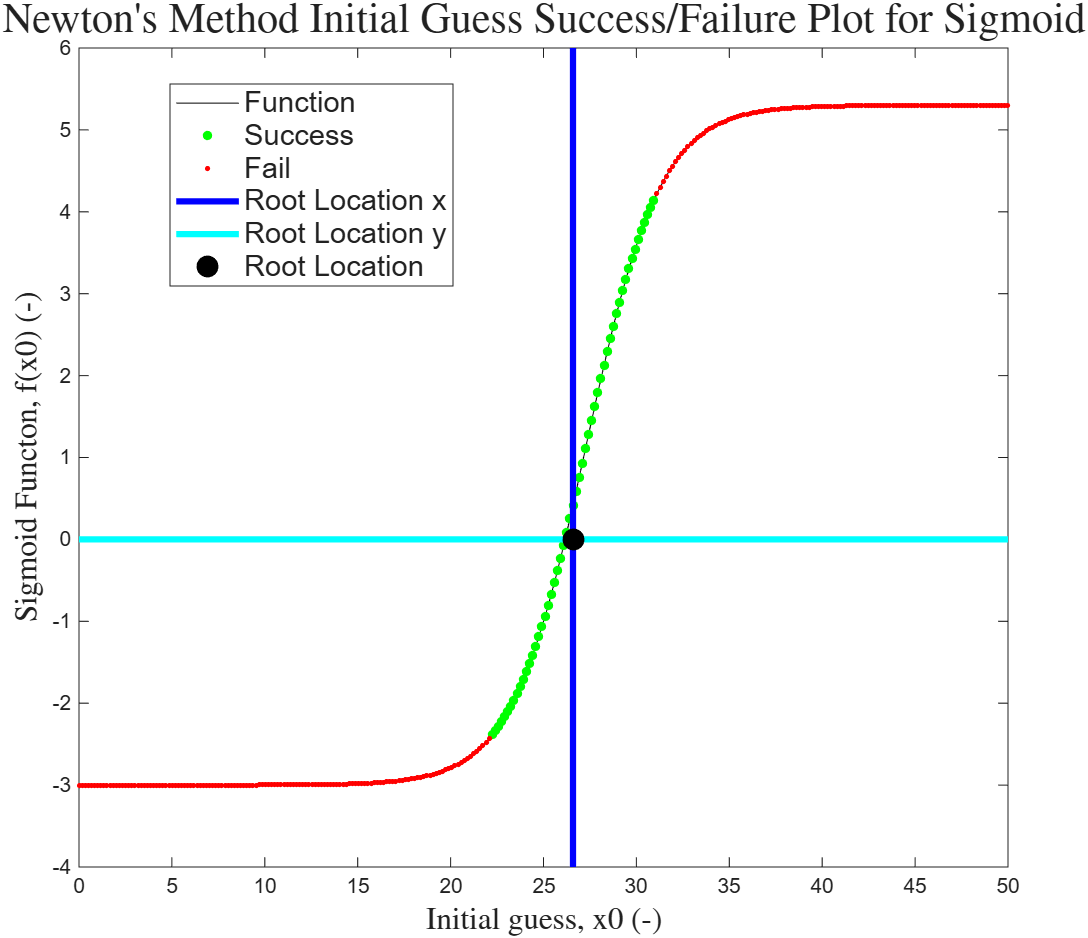
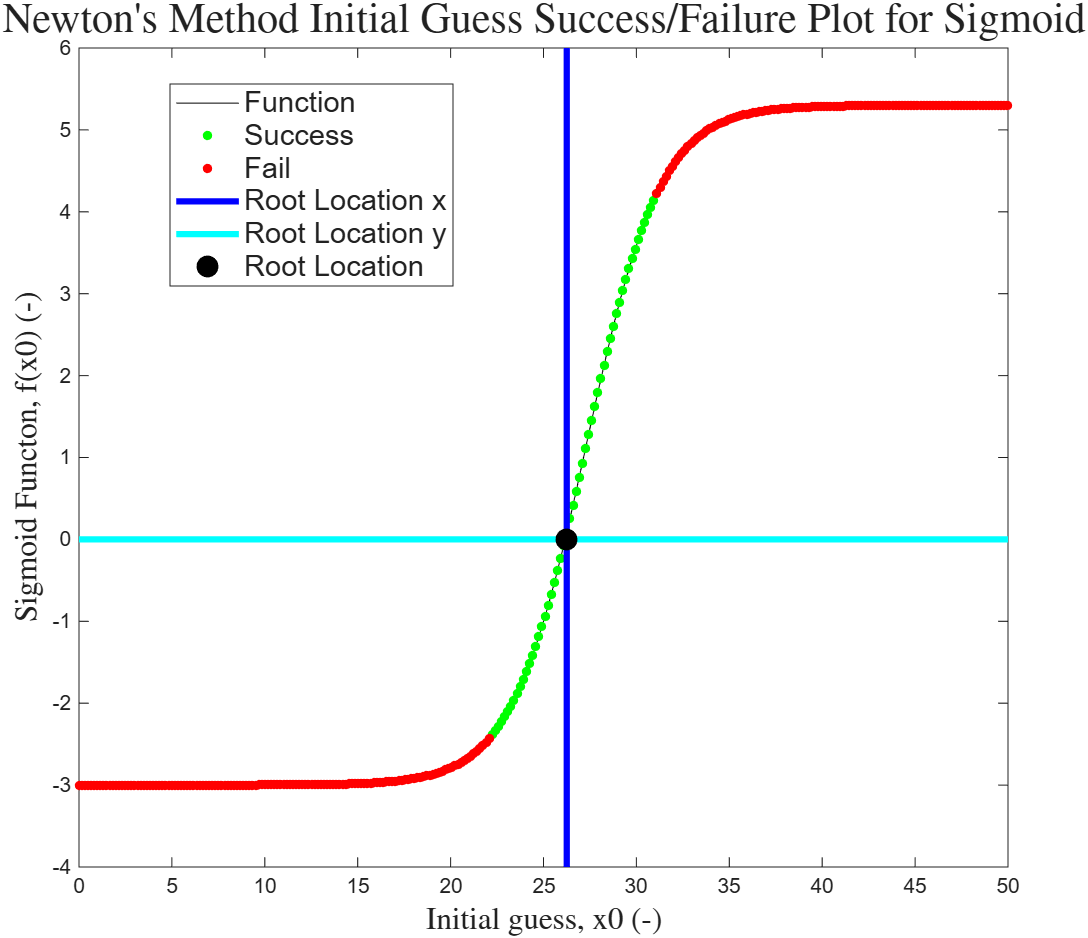
fix newton's method plot

diff --git a/run_convergence_analysis.m b/run_convergence_analysis.m
@@ -5,7 +5,7 @@ function run_convergence_analysis()
     y = linspace(10,40,50);   
     filter_list = [1e-15, 1e-2, 1e-14, 1e-2, 2];
     x_guess0 = 2;
-    solver_flag = 3;
+    solver_flag = 2;
     if(solver_flag == 2||solver_flag == 4)
         x = linspace(0,50,300);
 
@@ -14,23 +14,23 @@ function run_convergence_analysis()
     convergence_analysis(solver_flag, @test_function, x_guess0, x, y, filter_list);
 end
 % 
-function [f_val,dfdx] = test_function(x)
-% global input_list;
-% input_list(:,end+1) = x;
-f_val = (x-37.879).^2;
-dfdx = 2*(x-37.879);
-end
+% function [f_val,dfdx] = test_function(x)
+% % global input_list;
+% % input_list(:,end+1) = x;
+% f_val = (x-37.879).^2;
+% dfdx = 2*(x-37.879);
+% end
 
 % Example sigmoid function
-% function [f_val,dfdx] = test_function(x)
-% a = 27.3; b = 2; c = 8.3; d = -3;
-% H = exp((x-a)/b);
-% dH = H/b;
-% L = 1+H;
-% dL = dH;
-% f_val = c*H./L+d;
-% dfdx = c*(L.*dH-H.*dL)./(L.^2);
-% end
+function [f_val,dfdx] = test_function(x)
+a = 27.3; b = 2; c = 8.3; d = -3;
+H = exp((x-a)/b);
+dH = H/b;
+L = 1+H;
+dL = dH;
+f_val = c*H./L+d;
+dfdx = c*(L.*dH-H.*dL)./(L.^2);
+end
 
 % function [fval,dfdx] = test_function(x)
 %     fval = (x.^3)/100 - (x.^2)/8 + 2*x + 6*sin(x/2+6) -.7 - exp(x/6);

diff --git a/convergence_analysis.m b/convergence_analysis.m
@@ -114,9 +114,9 @@ fval = [];
         y_fail = fun(x_fail);
         hold on;
         h(2) = plot(x_success,y_success, 'ko','markerfacecolor','g', 'MarkerSize', 4, 'Color','g');
-        h(3) = plot(x_fail,y_fail,'ko','markerfacecolor','r', 'MarkerSize', 2, 'Color','r');
+        h(3) = plot(x_fail,y_fail,'ko','markerfacecolor','r', 'MarkerSize', 4, 'Color','r');
         
-        x_root_point = mean(x_success(~isnan(x_success)));
+        x_root_point = x_success(25);
         h(4) = plot([x_root_point x_root_point], [-10 10], 'LineWidth', 3, 'Color', 'Blue');
         h(5) = plot([0 50], [0 0], 'LineWidth', 3, 'Color', 'Cyan');
         h(6) = plot(x_root_point, 0, 'ko', 'MarkerSize', 10, 'MarkerFaceColor', 'black');
